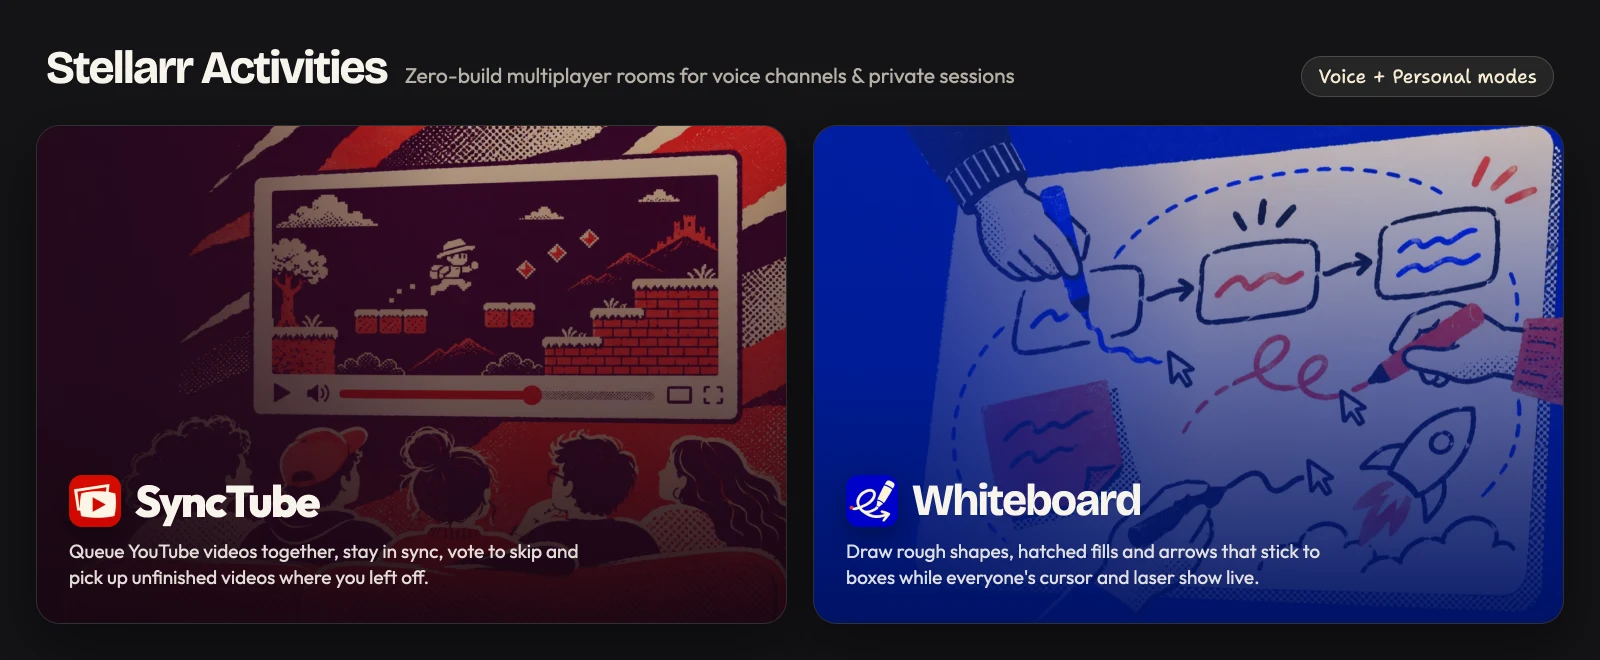
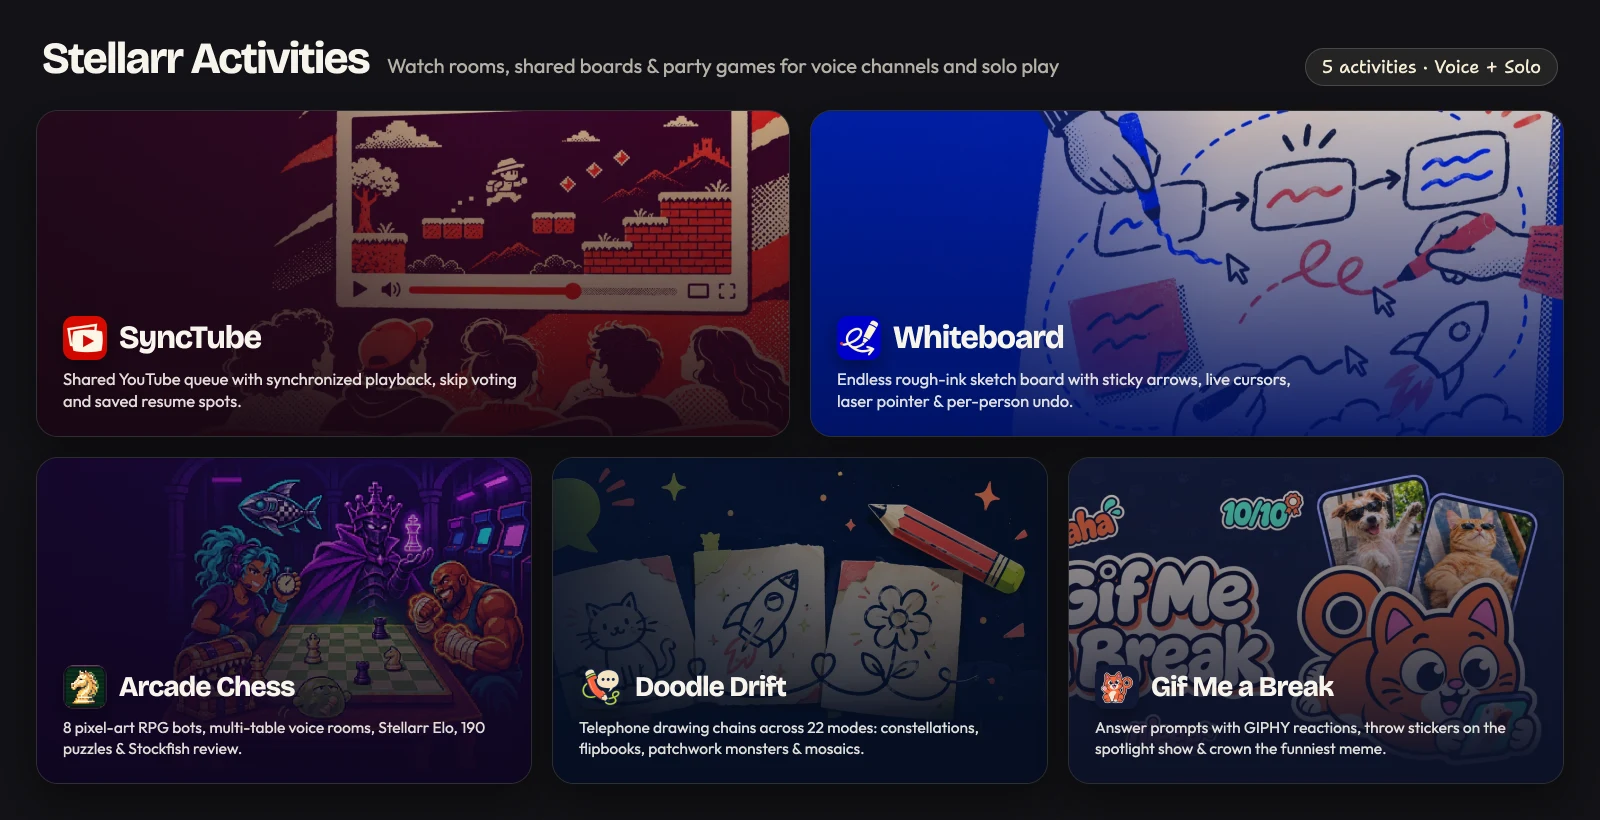
docs: expand catalog showcase to all five activities
Updates the root banner to a five-activity grid and gives Arcade Chess, Doodle Drift and Gif Me a Break full visual sections with inline animated demos alongside SyncTube and Whiteboard.

diff --git a/README.md b/README.md
@@ -1,8 +1,8 @@
 # Stellarr Activities
 
-![Stellarr Activities: SyncTube and Whiteboard](docs/hero.webp)
+![Stellarr Activities: SyncTube, Whiteboard, Arcade Chess, Doodle Drift and Gif Me a Break](docs/hero.webp)
 
-Activities run inside Stellarr voice channels. Some also work solo, such as Whiteboard for private sketches. Paste this repository URL into Cockpit once, pick an activity, and everyone in the channel can jump in with zero setup.
+Multiplayer apps and party games that run directly inside a Stellarr voice channel, with solo modes for private boards, chess training and flipbooks. Paste this repository URL into Cockpit once, install the activities you want, and jump in with zero setup.
 
 ---
 
@@ -44,19 +44,54 @@ Everyone in the voice channel draws on the same infinite canvas at the same time
 
 ---
 
-## Games
+## [Arcade Chess](arcade-chess/): Pixel-art bots, channel tables and puzzles
 
-| Activity | Where to play | What to do |
-| --- | --- | --- |
-| [Arcade Chess](arcade-chess/) | Voice or solo | Play a timed match, challenge a bot, solve puzzles or export your game as PGN. |
-| [Doodle Drift](doodle-drift/) | Voice or solo | Pass drawings and captions around the room or make a solo flipbook. |
-| [Gif Me a Break](gif-me-a-break/) | Voice | Answer a prompt with a GIF and vote on the submissions. The instance must have GIPHY configured. |
+[![Arcade Chess live demo](docs/arcade-chess/demo.webp)](arcade-chess/)
+
+Host timed chess tables in your voice channel while friends watch. You can also play solo against eight pixel-art video-game rivals and Stockfish.
+
+- **Eight game-inspired bots:** battle from `Glut` (`250`) and `Turbo` (`700`) up to `Mordax` (`2200`), or set Stockfish between levels `0` and `20`.
+- **Multi-table voice room:** run several matches at once in one channel, with live spectating, rematches and **Stellarr Elo** saved to your account.
+- **190 puzzles and Puzzle Rush:** solve the daily tactic, race the three-minute Puzzle Rush clock, practice checkmate themes, or drill endgames against Stockfish.
+- **Post-game Stockfish review:** step through finished games, track win rates by color and ECO opening, copy PGN, and pick from three piece sets and six board palettes.
+
+**[See the full Arcade Chess tour and screenshots →](arcade-chess/)**
+
+---
+
+## [Doodle Drift](doodle-drift/): Telephone drawing across 22 modes
+
+[![Doodle Drift live demo](docs/doodle-drift/demo.webp)](doodle-drift/)
+
+Everyone starts an album and passes sentences, drawings and captions around the channel (up to 14 players, plus solo modes). At the end, the host walks the room through every page.
+
+- **22 party modes:** play **Classic chain**, roll round twists in **Mixed bag**, connect stars in **Constellation**, mirror strokes in **Kaleidoscope**, or paint one shared **Mosaic**.
+- **Animations and patchwork monsters:** draw onion-skin frame animations in **Flipbook** and **Relay animation**. Or split head, body and legs across three players in **Patchwork monster**.
+- **Live stamps and GIF export:** react with floating stamps as each album unfolds, then save your favourite chain or animation as a shareable GIF.
+
+**[See the full Doodle Drift tour and screenshots →](doodle-drift/)**
+
+---
+
+## [Gif Me a Break](gif-me-a-break/): Answer prompts with the sharpest GIF
+
+[![Gif Me a Break live demo](docs/gif-me-a-break/demo.webp)](gif-me-a-break/)
+
+A reaction-GIF party game for 3 to 8 players in a voice channel. English and Polish players read the game in their own language in the same room (requires GIPHY on the Stellarr instance).
+
+- **Four game modes:** **Classic** search, **Banned words** (blocks prompt words), rotating **Director** (`3 pts` judge's pick), and **Captions** (write a line for a shared GIF).
+- **Anonymous spotlight show:** submissions play one by one while everyone throws five die-cut reaction stickers (`haha`, `10/10`, `nieee`, `pff`, `brawo`) across the screen.
+- **Podium and match awards:** crowns the top three players with awards like **On a roll**, **Full house** and **Fastest finger**, plus a winning-meme reel.
+
+**[See the full Gif Me a Break tour and screenshots →](gif-me-a-break/)**
+
+---
 
 ## Add an activity to Stellarr
 
 1. Open **Cockpit → Activities** on your Stellarr instance and paste `https://github.com/Arkazzae/StellarrActivities`.
-2. Pick one of the five activities, check its version, download size and permissions, and select **Install and enable**.
-3. Start a shared activity from a voice channel. For a solo session, open **Add a server and more → Solo activities** at the bottom of the left rail and choose Whiteboard, Arcade Chess or Doodle Drift.
+2. Pick any of the five activities, review its version, download size and permissions, and select **Install and enable**.
+3. Start a shared session from a voice channel. For solo play, open **Add a server and more → Solo activities** in the left rail for **Whiteboard**, **Arcade Chess** or **Doodle Drift**.
 
 Each activity updates and uninstalls independently in your library.
 
